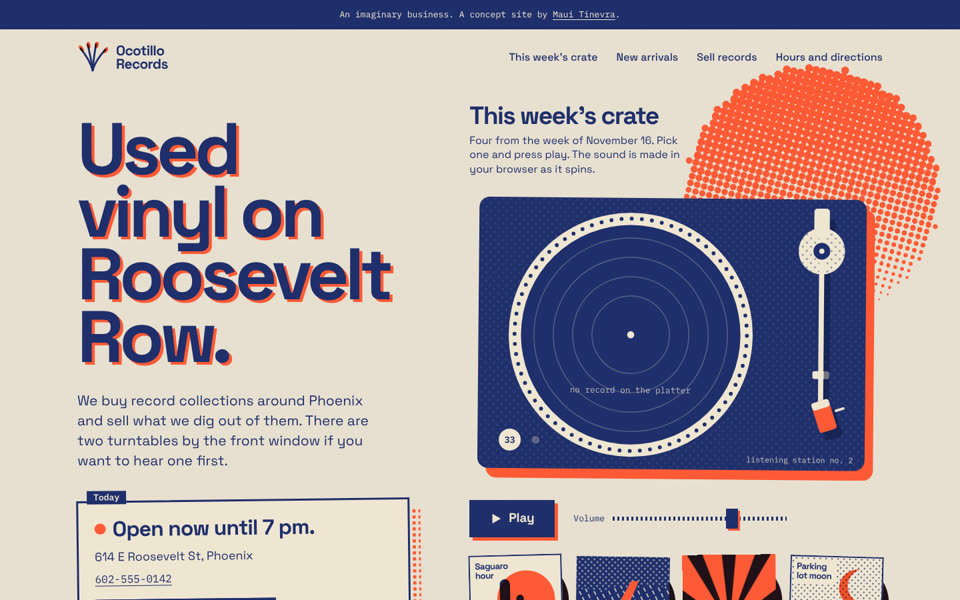
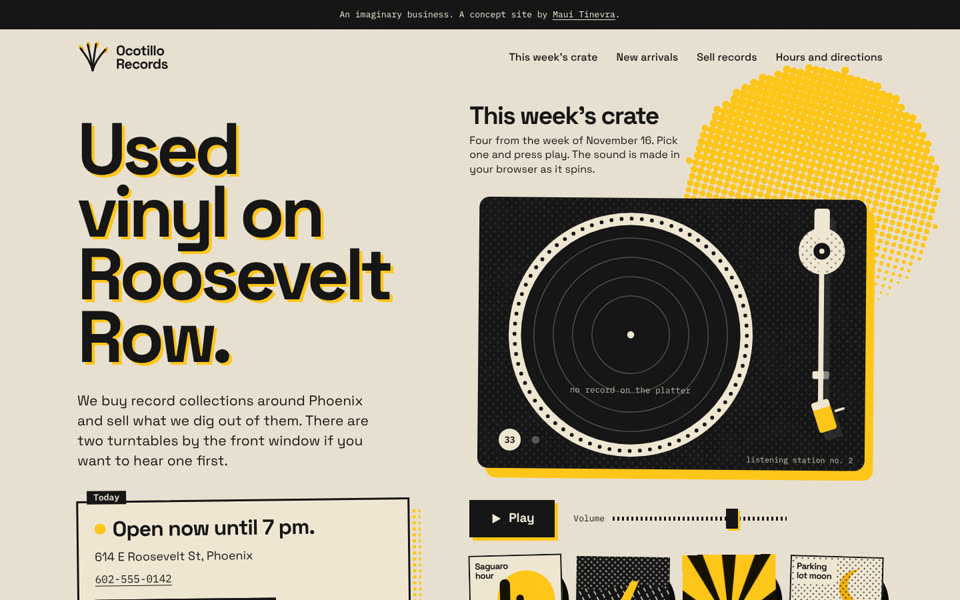
Ocotillo Records: black and yellow instead of navy and orange-red
Swaps both inks across the site, its drawings, the turntable and its guide,
and updates the thumbnail and the Work description.

Claude-Session: https://claude.ai/code/session_01HKdKx6aats3CKbV6upcPjs

diff --git a/public/gallery/ocotillo-records/index.html b/public/gallery/ocotillo-records/index.html
@@ -13,9 +13,9 @@
 <!-- Shared halftone screens. Every drawing on the page pulls its dots from here. -->
 <svg class="defs" width="0" height="0" aria-hidden="true" focusable="false">
   <defs>
-    <pattern id="ht-ink" width="9" height="9" patternUnits="userSpaceOnUse" patternTransform="rotate(45)"><circle cx="4.5" cy="4.5" r="2.7" fill="#1f2f6b"/></pattern>
-    <pattern id="ht-ink-light" width="9" height="9" patternUnits="userSpaceOnUse" patternTransform="rotate(45)"><circle cx="4.5" cy="4.5" r="1.5" fill="#1f2f6b"/></pattern>
-    <pattern id="ht-hot" width="9" height="9" patternUnits="userSpaceOnUse" patternTransform="rotate(15)"><circle cx="4.5" cy="4.5" r="2.7" fill="#ff5a36"/></pattern>
+    <pattern id="ht-ink" width="9" height="9" patternUnits="userSpaceOnUse" patternTransform="rotate(45)"><circle cx="4.5" cy="4.5" r="2.7" fill="#161616"/></pattern>
+    <pattern id="ht-ink-light" width="9" height="9" patternUnits="userSpaceOnUse" patternTransform="rotate(45)"><circle cx="4.5" cy="4.5" r="1.5" fill="#161616"/></pattern>
+    <pattern id="ht-hot" width="9" height="9" patternUnits="userSpaceOnUse" patternTransform="rotate(15)"><circle cx="4.5" cy="4.5" r="2.7" fill="#ffc61a"/></pattern>
     <pattern id="ht-paper" width="9" height="9" patternUnits="userSpaceOnUse" patternTransform="rotate(45)"><circle cx="4.5" cy="4.5" r="2.2" fill="#efe6d2"/></pattern>
     <pattern id="rain" width="14" height="14" patternUnits="userSpaceOnUse" patternTransform="rotate(62)"><rect width="9" height="2.6" fill="#efe6d2"/></pattern>
   </defs>
@@ -26,10 +26,10 @@
 <header class="mast wrap">
   <a class="mark" href="#top" aria-label="Ocotillo Records, back to top">
     <svg viewBox="0 0 56 56" width="46" height="46" aria-hidden="true" focusable="false">
-      <g fill="none" stroke="#1f2f6b" stroke-width="3.4" stroke-linecap="round">
+      <g fill="none" stroke="#161616" stroke-width="3.4" stroke-linecap="round">
         <path d="M28 52 C24 36 14 22 6 12"/><path d="M28 52 C26 34 22 18 19 5"/><path d="M28 52 C29 34 32 18 34 4"/><path d="M28 52 C32 36 42 24 51 14"/>
       </g>
-      <g fill="#ff5a36" style="mix-blend-mode:multiply">
+      <g fill="#ffc61a" style="mix-blend-mode:multiply">
         <ellipse cx="7.5" cy="12" rx="3.4" ry="6.6" transform="rotate(-38 7.5 12)"/><ellipse cx="20.5" cy="6" rx="3.4" ry="6.6" transform="rotate(-12 20.5 6)"/><ellipse cx="35.5" cy="5" rx="3.4" ry="6.6" transform="rotate(8 35.5 5)"/><ellipse cx="52" cy="15" rx="3.4" ry="6.6" transform="rotate(40 52 15)"/>
       </g>
     </svg>
@@ -77,15 +77,15 @@
           <defs>
             <clipPath id="disc-clip"><circle cx="250" cy="228" r="166"/></clipPath>
           </defs>
-          <!-- plinth, with the orange plate printed a little off -->
-          <rect x="27" y="31" width="600" height="420" rx="16" fill="#ff5a36"/>
-          <rect x="14" y="16" width="600" height="420" rx="16" fill="#1f2f6b"/>
+          <!-- plinth, with the yellow plate printed a little off -->
+          <rect x="27" y="31" width="600" height="420" rx="16" fill="#ffc61a"/>
+          <rect x="14" y="16" width="600" height="420" rx="16" fill="#161616"/>
           <rect x="14" y="16" width="600" height="420" rx="16" fill="url(#ht-paper)" opacity=".07"/>
 
           <!-- platter -->
           <circle cx="250" cy="228" r="189" fill="#efe6d2"/>
           <g id="strobe" class="turns"></g>
-          <circle cx="250" cy="228" r="170" fill="#1f2f6b"/>
+          <circle cx="250" cy="228" r="170" fill="#161616"/>
           <g fill="none" stroke="#efe6d2" stroke-opacity=".28" stroke-width="1.5">
             <circle cx="250" cy="228" r="150"/><circle cx="250" cy="228" r="120"/><circle cx="250" cy="228" r="90"/><circle cx="250" cy="228" r="60"/>
           </g>
@@ -94,7 +94,7 @@
           <!-- the record: outer group drops, inner group spins, sheen stays put -->
           <g id="rec" class="rec" opacity="0">
             <g id="spin" class="turns">
-              <circle cx="250" cy="228" r="166" fill="#1f1117"/>
+              <circle cx="250" cy="228" r="166" fill="#0a0a0a"/>
               <g id="grooves" fill="none" stroke="#efe6d2"></g>
               <g id="label" transform="translate(250 228)"></g>
             </g>
@@ -115,9 +115,9 @@
           <rect x="532" y="282" width="26" height="12" rx="3" fill="#efe6d2"/>
           <g id="arm-shadow" class="arm-shadow">
             <g class="arm-rot">
-              <path d="M545 96 L545 334" stroke="#101a44" stroke-width="9" stroke-linecap="round" fill="none"/>
-              <rect x="531" y="330" width="28" height="46" rx="4" fill="#101a44" transform="rotate(-18 545 334)"/>
-              <rect x="533" y="34" width="24" height="44" rx="5" fill="#101a44"/>
+              <path d="M545 96 L545 334" stroke="#3a3a3a" stroke-width="9" stroke-linecap="round" fill="none"/>
+              <rect x="531" y="330" width="28" height="46" rx="4" fill="#3a3a3a" transform="rotate(-18 545 334)"/>
+              <rect x="533" y="34" width="24" height="44" rx="5" fill="#3a3a3a"/>
             </g>
           </g>
           <circle cx="545" cy="96" r="36" fill="#efe6d2"/>
@@ -126,12 +126,12 @@
             <rect x="533" y="30" width="24" height="46" rx="5" fill="#efe6d2"/>
             <path d="M545 62 L545 334" stroke="#efe6d2" stroke-width="8" stroke-linecap="round" fill="none"/>
             <g transform="rotate(-18 545 334)">
-              <rect x="531" y="328" width="28" height="48" rx="4" fill="#ff5a36"/>
+              <rect x="531" y="328" width="28" height="48" rx="4" fill="#ffc61a"/>
               <rect x="531" y="328" width="28" height="12" rx="4" fill="#efe6d2"/>
               <path d="M565 350 h12" stroke="#efe6d2" stroke-width="4" stroke-linecap="round"/>
             </g>
           </g>
-          <circle cx="545" cy="96" r="13" fill="#1f2f6b"/>
+          <circle cx="545" cy="96" r="13" fill="#161616"/>
           <circle cx="545" cy="96" r="4" fill="#efe6d2"/>
         </svg>
       </div>
@@ -152,15 +152,15 @@
           <span class="sleeve-art">
             <svg viewBox="0 0 200 200" aria-hidden="true" focusable="false">
               <rect width="200" height="200" fill="#efe6d2"/>
-              <circle cx="122" cy="96" r="62" fill="#ff5a36"/>
+              <circle cx="122" cy="96" r="62" fill="#ffc61a"/>
               <rect y="118" width="200" height="82" fill="url(#ht-ink)" style="mix-blend-mode:multiply"/>
-              <g fill="#1f2f6b" style="mix-blend-mode:multiply">
+              <g fill="#161616" style="mix-blend-mode:multiply">
                 <rect x="66" y="52" width="22" height="148" rx="11"/>
                 <path d="M88 132 h18 a11 11 0 0 0 11 -11 v-27 a8 8 0 0 0 -16 0 v20 a2 2 0 0 1 -2 2 h-11z"/>
                 <path d="M66 150 h-16 a11 11 0 0 1 -11 -11 v-31 a8 8 0 0 1 16 0 v24 a2 2 0 0 0 2 2 h9z"/>
               </g>
-              <text x="14" y="30" class="sv-t" fill="#1f2f6b">Saguaro</text><text x="14" y="50" class="sv-t" fill="#1f2f6b">hour</text>
-              <rect x="1.5" y="1.5" width="197" height="197" fill="none" stroke="#1f2f6b" stroke-width="3"/>
+              <text x="14" y="30" class="sv-t" fill="#161616">Saguaro</text><text x="14" y="50" class="sv-t" fill="#161616">hour</text>
+              <rect x="1.5" y="1.5" width="197" height="197" fill="none" stroke="#161616" stroke-width="3"/>
             </svg>
           </span>
           <span class="sleeve-title">Saguaro Hour</span>
@@ -171,12 +171,12 @@
         <button type="button" class="sleeve" data-i="1" aria-pressed="false">
           <span class="sleeve-art">
             <svg viewBox="0 0 200 200" aria-hidden="true" focusable="false">
-              <rect width="200" height="200" fill="#1f2f6b"/>
+              <rect width="200" height="200" fill="#161616"/>
               <rect width="200" height="200" fill="url(#rain)" opacity=".85"/>
-              <path d="M0 0 h200 v58 c-18 16 -40 -8 -58 6 c-20 16 -44 -10 -66 4 c-22 14 -50 -6 -76 6z" fill="#1f2f6b"/>
+              <path d="M0 0 h200 v58 c-18 16 -40 -8 -58 6 c-20 16 -44 -10 -66 4 c-22 14 -50 -6 -76 6z" fill="#161616"/>
               <path d="M0 0 h200 v58 c-18 16 -40 -8 -58 6 c-20 16 -44 -10 -66 4 c-22 14 -50 -6 -76 6z" fill="url(#ht-paper)" opacity=".55"/>
-              <path d="M118 52 L82 118 L106 118 L88 176 L140 100 L114 100 L134 52Z" fill="#ff5a36"/>
-              <rect x="10" y="148" width="96" height="42" fill="#1f2f6b"/>
+              <path d="M118 52 L82 118 L106 118 L88 176 L140 100 L114 100 L134 52Z" fill="#ffc61a"/>
+              <rect x="10" y="148" width="96" height="42" fill="#161616"/>
               <text x="16" y="166" class="sv-t" fill="#efe6d2">Monsoon</text><text x="16" y="185" class="sv-t" fill="#efe6d2">static</text>
             </svg>
           </span>
@@ -188,13 +188,13 @@
         <button type="button" class="sleeve" data-i="2" aria-pressed="false">
           <span class="sleeve-art">
             <svg viewBox="0 0 200 200" aria-hidden="true" focusable="false">
-              <rect width="200" height="200" fill="#ff5a36"/>
-              <g fill="#1f2f6b" style="mix-blend-mode:multiply">
+              <rect width="200" height="200" fill="#ffc61a"/>
+              <g fill="#161616" style="mix-blend-mode:multiply">
                 <path d="M100 150 L-20 96 L-20 60Z"/><path d="M100 150 L4 -10 L40 -10Z"/><path d="M100 150 L84 -10 L116 -10Z"/><path d="M100 150 L160 -10 L196 -10Z"/><path d="M100 150 L220 60 L220 96Z"/>
               </g>
               <circle cx="100" cy="150" r="46" fill="#efe6d2"/>
               <circle cx="104" cy="154" r="46" fill="url(#ht-ink)" style="mix-blend-mode:multiply"/>
-              <rect y="150" width="200" height="50" fill="#1f2f6b"/>
+              <rect y="150" width="200" height="50" fill="#161616"/>
               <text x="14" y="172" class="sv-t" fill="#efe6d2">Copper state</text><text x="14" y="191" class="sv-t" fill="#efe6d2">stomp</text>
             </svg>
           </span>
@@ -208,13 +208,13 @@
             <svg viewBox="0 0 200 200" aria-hidden="true" focusable="false">
               <rect width="200" height="200" fill="#efe6d2"/>
               <rect width="200" height="120" fill="url(#ht-ink-light)"/>
-              <path d="M150 28 a40 40 0 1 0 22 70 a32 32 0 1 1 -22 -70z" fill="#ff5a36" style="mix-blend-mode:multiply"/>
-              <rect y="120" width="200" height="80" fill="#1f2f6b"/>
+              <path d="M150 28 a40 40 0 1 0 22 70 a32 32 0 1 1 -22 -70z" fill="#ffc61a" style="mix-blend-mode:multiply"/>
+              <rect y="120" width="200" height="80" fill="#161616"/>
               <g stroke="#efe6d2" stroke-width="5" fill="none">
                 <path d="M100 120 L-30 200"/><path d="M100 120 L36 200"/><path d="M100 120 L100 200"/><path d="M100 120 L164 200"/><path d="M100 120 L230 200"/>
               </g>
-              <rect x="8" y="9" width="92" height="50" fill="#efe6d2"/><text x="14" y="30" class="sv-t" fill="#1f2f6b">Parking</text><text x="14" y="50" class="sv-t" fill="#1f2f6b">lot moon</text>
-              <rect x="1.5" y="1.5" width="197" height="197" fill="none" stroke="#1f2f6b" stroke-width="3"/>
+              <rect x="8" y="9" width="92" height="50" fill="#efe6d2"/><text x="14" y="30" class="sv-t" fill="#161616">Parking</text><text x="14" y="50" class="sv-t" fill="#161616">lot moon</text>
+              <rect x="1.5" y="1.5" width="197" height="197" fill="none" stroke="#161616" stroke-width="3"/>
             </svg>
           </span>
           <span class="sleeve-title">Parking Lot Moon</span>
@@ -327,13 +327,13 @@
       <svg viewBox="0 0 420 300" aria-hidden="true" focusable="false">
         <circle cx="236" cy="150" r="128" fill="url(#ht-hot)"/>
         <g style="mix-blend-mode:multiply">
-          <path d="M92 190 V150 a118 118 0 0 1 236 0 V190" fill="none" stroke="#1f2f6b" stroke-width="20" stroke-linecap="round"/>
-          <rect x="62" y="168" width="58" height="104" rx="26" fill="#1f2f6b"/>
-          <rect x="300" y="168" width="58" height="104" rx="26" fill="#1f2f6b"/>
+          <path d="M92 190 V150 a118 118 0 0 1 236 0 V190" fill="none" stroke="#161616" stroke-width="20" stroke-linecap="round"/>
+          <rect x="62" y="168" width="58" height="104" rx="26" fill="#161616"/>
+          <rect x="300" y="168" width="58" height="104" rx="26" fill="#161616"/>
         </g>
-        <rect x="76" y="182" width="16" height="76" rx="8" fill="#ff5a36"/>
-        <rect x="328" y="182" width="16" height="76" rx="8" fill="#ff5a36"/>
-        <path d="M91 272 c0 30 60 2 60 26" fill="none" stroke="#1f2f6b" stroke-width="5" stroke-linecap="round"/>
+        <rect x="76" y="182" width="16" height="76" rx="8" fill="#ffc61a"/>
+        <rect x="328" y="182" width="16" height="76" rx="8" fill="#ffc61a"/>
+        <path d="M91 272 c0 30 60 2 60 26" fill="none" stroke="#161616" stroke-width="5" stroke-linecap="round"/>
       </svg>
     </div>
   </div>
@@ -368,12 +368,12 @@
         </g>
         <rect x="20" y="20" width="50" height="300" fill="url(#ht-ink-light)" opacity=".8"/>
         <!-- light rail on Central -->
-        <path d="M83 10 V330" stroke="#1f2f6b" stroke-width="4" stroke-dasharray="3 7"/>
-        <rect x="73" y="150" width="20" height="24" fill="#1f2f6b"/>
+        <path d="M83 10 V330" stroke="#161616" stroke-width="4" stroke-dasharray="3 7"/>
+        <rect x="73" y="150" width="20" height="24" fill="#161616"/>
         <!-- the walk from the stop, and the shop with its second plate off register -->
-        <path d="M104 172 H392" stroke="#ff5a36" stroke-width="5" stroke-dasharray="1 11" stroke-linecap="round"/>
-        <rect x="397" y="95" width="46" height="42" fill="#ff5a36"/>
-        <rect x="392" y="90" width="46" height="42" fill="#1f2f6b"/>
+        <path d="M104 172 H392" stroke="#ffc61a" stroke-width="5" stroke-dasharray="1 11" stroke-linecap="round"/>
+        <rect x="397" y="95" width="46" height="42" fill="#ffc61a"/>
+        <rect x="392" y="90" width="46" height="42" fill="#161616"/>
         <g class="map-t">
           <text x="104" y="158">Roosevelt St</text>
           <text x="50" y="306" transform="rotate(-90 50 306)">Central Ave</text>
@@ -382,10 +382,10 @@
           <text x="104" y="128" class="map-s">light rail stop</text>
           <text x="450" y="108" class="map-b">We're</text><text x="450" y="126" class="map-b">here</text>
         </g>
-        <path d="M100 133 L92 146" stroke="#1f2f6b" stroke-width="2"/>
+        <path d="M100 133 L92 146" stroke="#161616" stroke-width="2"/>
         <g transform="translate(476 292)">
-          <circle r="17" fill="#efe6d2" stroke="#1f2f6b" stroke-width="2.5"/>
-          <path d="M0 -11 L6 3 L0 0 L-6 3Z" fill="#1f2f6b"/>
+          <circle r="17" fill="#efe6d2" stroke="#161616" stroke-width="2.5"/>
+          <path d="M0 -11 L6 3 L0 0 L-6 3Z" fill="#161616"/>
           <text y="13" text-anchor="middle" class="map-n">N</text>
         </g>
       </svg>
@@ -395,7 +395,7 @@
           614 E Roosevelt St<br>
           Phoenix, AZ 85004
         </address>
-        <p>North side of Roosevelt, between 6th and 7th Streets. Look for the blue door with the orange ocotillo on it.</p>
+        <p>North side of Roosevelt, between 6th and 7th Streets. Look for the black door with the yellow ocotillo on it.</p>
         <p>Metered parking out front and on 6th Street. The light rail stops at Roosevelt and Central, a ten minute walk west.</p>
         <p><a class="plain" href="tel:+16025550142">602-555-0142</a><br><a class="plain" href="mailto:hello@ocotillorecords.example">hello@ocotillorecords.example</a></p>
       </div>

diff --git a/public/gallery/ocotillo-records/guide/index.html b/public/gallery/ocotillo-records/guide/index.html
@@ -45,10 +45,10 @@
 <header class="mast wrap">
   <a class="mark" href="../index.html" aria-label="Ocotillo Records, back to the site">
     <svg viewBox="0 0 56 56" width="46" height="46" aria-hidden="true" focusable="false">
-      <g fill="none" stroke="#1f2f6b" stroke-width="3.4" stroke-linecap="round">
+      <g fill="none" stroke="#161616" stroke-width="3.4" stroke-linecap="round">
         <path d="M28 52 C24 36 14 22 6 12"/><path d="M28 52 C26 34 22 18 19 5"/><path d="M28 52 C29 34 32 18 34 4"/><path d="M28 52 C32 36 42 24 51 14"/>
       </g>
-      <g fill="#ff5a36" style="mix-blend-mode:multiply">
+      <g fill="#ffc61a" style="mix-blend-mode:multiply">
         <ellipse cx="7.5" cy="12" rx="3.4" ry="6.6" transform="rotate(-38 7.5 12)"/><ellipse cx="20.5" cy="6" rx="3.4" ry="6.6" transform="rotate(-12 20.5 6)"/><ellipse cx="35.5" cy="5" rx="3.4" ry="6.6" transform="rotate(8 35.5 5)"/><ellipse cx="52" cy="15" rx="3.4" ry="6.6" transform="rotate(40 52 15)"/>
       </g>
     </svg>
@@ -68,12 +68,12 @@
     <div>
       <div class="swatches">
         <div class="sw"><i style="background:#efe6d2"></i><b>Paper</b>#efe6d2<br>about 60 percent</div>
-        <div class="sw"><i style="background:#1f2f6b"></i><b>Ink blue</b>#1f2f6b<br>about 30 percent</div>
-        <div class="sw"><i style="background:#ff5a36"></i><b>Orange-red</b>#ff5a36<br>about 10 percent</div>
-        <div class="sw"><i style="background:#1f1117"></i><b>Overprint</b>#1f1117<br>both inks at once</div>
+        <div class="sw"><i style="background:#161616"></i><b>Ink black</b>#161616<br>about 30 percent</div>
+        <div class="sw"><i style="background:#ffc61a"></i><b>Yellow</b>#ffc61a<br>about 10 percent</div>
+        <div class="sw"><i style="background:#0a0a0a"></i><b>Overprint</b>#0a0a0a<br>both inks at once</div>
       </div>
-      <p style="margin-top:22px">The fourth swatch is not a third ink. It is what you get when blue is multiplied over orange, so it only appears where the two plates overlap: the vinyl itself, the saguaro crossing the sun, the headphones over their halftone. Body text is blue on paper at 10.1 to 1. Orange never carries small text; on blue it reaches 4.0 to 1, so it is kept to the large step numerals and to shapes.</p>
-      <p>Misregistration is done three ways: an orange copy of each big heading set a few hundredths of an em down and right, orange blocks sitting a few pixels off the blue ones they belong to, and panels turned by less than a degree. The halftones are real dot screens. Small ones are SVG patterns at a 45 degree screen angle; the sun behind the turntable is generated dot by dot, each dot sized by the tone at that point.</p>
+      <p style="margin-top:22px">The fourth swatch is not a third ink. It is what you get when black is multiplied over yellow, so it only appears where the two plates overlap: the vinyl itself, the saguaro crossing the sun, the headphones over their halftone. Body text is blue on paper at 10.1 to 1. Orange never carries small text; on blue it reaches 4.0 to 1, so it is kept to the large step numerals and to shapes.</p>
+      <p>Misregistration is done three ways: a yellow copy of each big heading set a few hundredths of an em down and right, yellow blocks sitting a few pixels off the black ones they belong to, and panels turned by less than a degree. The halftones are real dot screens. Small ones are SVG patterns at a 45 degree screen angle; the sun behind the turntable is generated dot by dot, each dot sized by the tone at that point.</p>
       <div class="faces">
         <div><div class="face-a">Space Grotesk</div><p>Display and text, weight 700 for headings with tracking pulled in to about minus five percent. One variable font file.</p></div>
         <div><div class="face-b">IBM Plex Mono<br>OCO-0417 $18</div><p>Prices, catalog numbers, grades, hours and anything else you would read off a sticker. Two weights.</p></div>
@@ -119,7 +119,7 @@ for (var t = 0; t &lt; 3; t++) pop(t * turn + sr * .7, .75);       // the scratc
     <ol class="log">
       <li><div>The halftone sun pushed the phone layout sideways and sat behind the crate's intro text, making it hard to read. Pressing play scrolled the deck out of view because the button was below the sleeves. A font preload raised a console error when the page was opened from disk. On the phone the concept bar wrapped with a stray full stop, the menu took two rows, and the arrivals list had ragged columns. The map labels collided, the ocotillo drawing was clipped, and an offline render showed two grooves peaking above full scale. All fixed: the sun was resized and moved, play went directly under the deck, the now-playing slip became a full-width strip, levels were rebalanced.
         <b>Upgrade: the tonearm now tracks inward as the record plays.</b></div></li>
-      <li><div>Picking the fourth sleeve on a phone brought the sideways overflow back, so the hero now clips it properly. The playhead in the dot grid was a row of tiny orange specks nobody would notice; it became a solid orange column with the sounding dots enlarged. The headline was trimmed slightly so today's hours sit higher on the first screen.
+      <li><div>Picking the fourth sleeve on a phone brought the sideways overflow back, so the hero now clips it properly. The playhead in the dot grid was a row of tiny yellow specks nobody would notice; it became a solid yellow column with the sounding dots enlarged. The headline was trimmed slightly so today's hours sit higher on the first screen.
         <b>Upgrade: each centre label carries its title and catalog number set on a circle, inside a paper rim, like a real pressing.</b></div></li>
       <li><div>Map lettering came out under 9 pixels on a phone and was enlarged there. Play and volume now share one row on small screens. Checked by script rather than by eye: the hours panel at seven different moments including a first Friday and a Monday, the whole play, pause and swap sequence by keyboard, reduced motion, and every link and control for a 44 pixel tap height.
         <b>Upgrade: surface noise follows the grade on the sticker, so the listening station tells you something the price tag does.</b></div></li>

diff --git a/public/gallery/ocotillo-records/css/site.css b/public/gallery/ocotillo-records/css/site.css
@@ -1,4 +1,4 @@
-/* Ocotillo Records. Two inks on paper: blue #1f2f6b and fluorescent orange-red #ff5a36. */
+/* Ocotillo Records. Two inks on paper: black #161616 and yellow #ffc61a. */
 
 @font-face {
   font-family: "Space Grotesk";
@@ -24,10 +24,10 @@
 
 :root {
   --paper: #efe6d2;
-  --ink: #1f2f6b;
-  --hot: #ff5a36;
-  --over: #1f1117; /* what the press gives where both inks land */
-  --rule: rgba(31, 47, 107, .28);
+  --ink: #161616;
+  --hot: #ffc61a;
+  --over: #0a0a0a; /* what the press gives where both inks land */
+  --rule: rgba(22, 22, 22, .25);
   --grot: "Space Grotesk", "Helvetica Neue", Arial, sans-serif;
   --mono: "IBM Plex Mono", ui-monospace, Menlo, Consolas, monospace;
   --pad: clamp(20px, 4vw, 56px);
@@ -253,7 +253,7 @@ h3 { font-size: 20px; font-weight: 700; letter-spacing: -.03em; line-height: 1.1
 .c-what { font-size: 17px; line-height: 1.3; }
 .c-what b { display: block; letter-spacing: -.02em; }
 .c-bin { font-size: 15px; white-space: nowrap; }
-.list tbody tr:hover td { background: rgba(255, 90, 54, .13); }
+.list tbody tr:hover td { background: rgba(255, 198, 26, .28); }
 .list-foot { margin-top: 18px; font-size: 16px; max-width: 60ch; }
 
 .grades { position: relative; background: var(--ink); color: var(--paper); padding: 28px 26px 30px; transform: rotate(.8deg); margin-top: 14px; box-shadow: 12px 12px 0 var(--hot); }

diff --git a/src/data/work.ts b/src/data/work.ts
@@ -92,7 +92,7 @@ export const work: Work[] = [
     problem:
       'A used vinyl shop on Roosevelt Row. People want today\u2019s hours, where it is and what came in this week, and a record shop should sound like something.',
     did: [
-      'Printed like a two-color poster: blue and fluorescent orange-red on paper, with overprint where the inks meet.',
+      'Printed like a two-color poster: black and yellow on paper, with overprint where the inks meet.',
       'A turntable drawn in code: pick one of four invented records, it drops on the platter, and the tonearm swings in.',
       'Each record plays its own short groove, synthesized live with the Web Audio API, with crackle that follows the record\u2019s grade.',
       'Today\u2019s hours on Phoenix time, ten new arrivals with grades and prices, and how to sell a collection.',

diff --git a/public/gallery/ocotillo-records/js/site.js b/public/gallery/ocotillo-records/js/site.js
@@ -2,7 +2,7 @@
 (function () {
   'use strict';
   var NS = 'http://www.w3.org/2000/svg';
-  var INK = '#1f2f6b', HOT = '#ff5a36';
+  var INK = '#161616', HOT = '#ffc61a';
 
   /* ---------- today's hours, on the shop's clock ---------- */
   // [open, close] in 24h, indexed by day of week (0 = Sunday). Monday is closed.

diff --git a/public/gallery/ocotillo-records/js/deck.js b/public/gallery/ocotillo-records/js/deck.js
@@ -4,7 +4,7 @@
 (function () {
   'use strict';
   var NS = 'http://www.w3.org/2000/svg';
-  var PAPER = '#efe6d2', INK = '#1f2f6b', HOT = '#ff5a36';
+  var PAPER = '#efe6d2', INK = '#161616', HOT = '#ffc61a';
   var reduced = window.matchMedia('(prefers-reduced-motion: reduce)');
 
   /* ---------- the crate ----------
